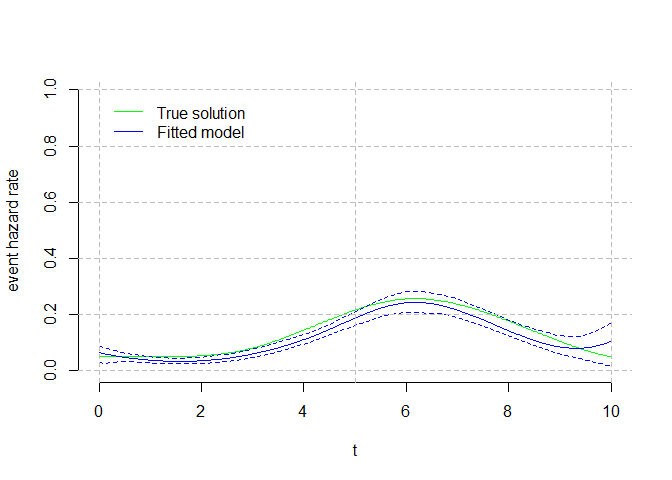
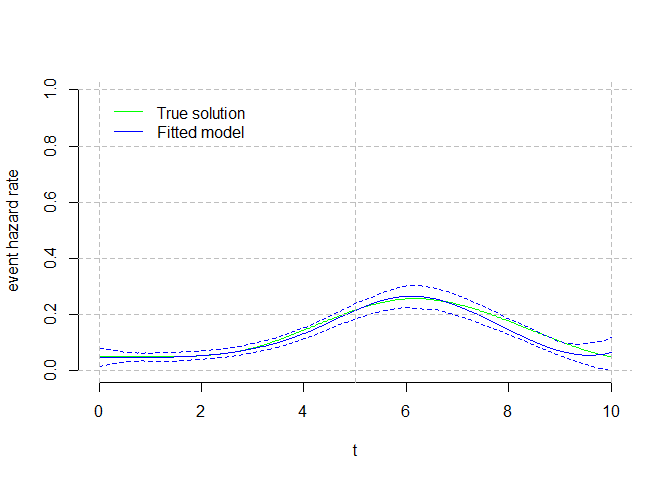
Cleaning after git mess

diff --git a/README.md b/README.md
@@ -1,11 +1,5 @@
-<<<<<<< HEAD
-
-<!-- README.md is generated from README.Rmd. Please edit that file -->
 
 # SplineHazardRegression
-
-<!-- badges: start -->
-<!-- badges: end -->
 
 Survival hazards are used in regression (Cox proportional hazards
 models) but rarely reported or visualized in descriptive analyses, where
@@ -80,23 +74,23 @@ hist( SimDat$time[ which(SimDat$status==0)], main="", xlab="t", breaks="Freedman
    # Result = hspcore(yd=SimDat, ORDER=4, knots=c(0,1,3,6,10), time=timeout, Bootstrap = 120, verbose=FALSE )   
    Result = hspcore(yd=SimDat, ORDER=4, Exterior.knots = c(0,10), Interior.knots=NULL, SelectBestKnots = TRUE, time=timeout, Bootstrap = 200, verbose=FALSE )  
 #> [1] "Automatic search for K the number of interior knots of the B-spline hazard function"
-#> [1] "K=0, m2loglik=303.36, DOF=4, AICc=311.49, knots= 0 10"
-#> [1] "K=1, m2loglik=300.14, DOF=5, AICc=310.35, knots= 0 5.2 10"
-#> [1] "K=2, m2loglik=289.72, DOF=6, AICc=302, knots= 0 4.4 6.1 10"
-#> [1] "K=3, m2loglik=288.5, DOF=7, AICc=302.88, knots= 0 3.7 5.2 6.7 10"
-#> [1] "K=4, m2loglik=288.62, DOF=8, AICc=305.11, knots= 0 3.3 4.7 5.6 6.9 10"
-#> [1] "K=5, m2loglik=287.44, DOF=9, AICc=306.05, knots= 0 2.6 4.4 5.2 6.1 7.2 10"
-#> [1] "K=6, m2loglik=287.3, DOF=10, AICc=308.06, knots= 0 2.3 4 4.8 5.4 6.3 7.4 10"
-#> [1] "K=7, m2loglik=287.13, DOF=11, AICc=310.05, knots= 0 2 3.7 4.6 5.2 5.7 6.7 7.4 10"
-#> [1] "K=8, m2loglik=286.42, DOF=12, AICc=311.51, knots= 0 1.7 3.4 4.4 4.9 5.4 6.1 6.8 7.6 10"
-#> [1] "K=9, m2loglik=285.57, DOF=13, AICc=312.84, knots= 0 1.4 3.3 4.2 4.7 5.2 5.6 6.2 6.9 7.7 10"
-#> [1] "K=10, m2loglik=286.06, DOF=14, AICc=315.52, knots= 0 1.2 3 3.9 4.5 4.9 5.4 5.9 6.5 7 8 10"
-#> [1] "K=11, m2loglik=284.8, DOF=15, AICc=316.48, knots= 0 1 2.6 3.7 4.4 4.8 5.2 5.6 6.1 6.7 7.2 8.1 10"
-#> [1] "K=12, m2loglik=284.19, DOF=16, AICc=318.1, knots= 0 0.9 2.4 3.5 4.3 4.6 4.9 5.3 5.7 6.2 6.8 7.3 8.3 10"
-#> [1] "K=13, m2loglik=283.5, DOF=17, AICc=319.66, knots= 0 0.9 2.3 3.4 4 4.5 4.8 5.2 5.4 5.9 6.3 6.8 7.4 8.3 10"
-#> [1] "K=14, m2loglik=281.85, DOF=18, AICc=320.27, knots= 0 0.8 2.2 3.3 3.9 4.4 4.7 4.9 5.3 5.6 6.1 6.6 6.9 7.4 8.4 10"
+#> [1] "K=0, m2loglik=279.78, DOF=4, AICc=287.92, knots= 0 10"
+#> [1] "K=1, m2loglik=277.87, DOF=5, AICc=288.07, knots= 0 4.9 10"
+#> [1] "K=2, m2loglik=271.08, DOF=6, AICc=283.36, knots= 0 4 6 10"
+#> [1] "K=3, m2loglik=270.38, DOF=7, AICc=284.76, knots= 0 3.3 4.9 6.4 10"
+#> [1] "K=4, m2loglik=270.14, DOF=8, AICc=286.63, knots= 0 2.9 4.3 5.5 6.6 10"
+#> [1] "K=5, m2loglik=268.59, DOF=9, AICc=287.21, knots= 0 2.5 4 4.9 6 7 10"
+#> [1] "K=6, m2loglik=266.8, DOF=10, AICc=287.56, knots= 0 2 3.6 4.5 5.4 6.2 7.1 10"
+#> [1] "K=7, m2loglik=266.07, DOF=11, AICc=288.98, knots= 0 1.7 3.3 4.2 4.9 5.7 6.4 7.1 10"
+#> [1] "K=8, m2loglik=265.1, DOF=12, AICc=290.18, knots= 0 1.5 3 4 4.6 5.3 6 6.5 7.2 10"
+#> [1] "K=9, m2loglik=265.16, DOF=13, AICc=292.43, knots= 0 1.4 2.9 3.7 4.3 4.9 5.5 6.1 6.6 7.2 10"
+#> [1] "K=10, m2loglik=264.43, DOF=14, AICc=293.9, knots= 0 1.3 2.7 3.5 4.1 4.8 5.3 5.7 6.3 6.8 7.3 10"
+#> [1] "K=11, m2loglik=263.18, DOF=15, AICc=294.87, knots= 0 1.2 2.5 3.3 4 4.3 4.9 5.4 6 6.4 7 7.5 10"
+#> [1] "K=12, m2loglik=262.19, DOF=16, AICc=296.1, knots= 0 1.2 2.3 3.1 3.7 4.2 4.8 5.3 5.6 6.1 6.4 7 7.5 10"
+#> [1] "K=13, m2loglik=260.18, DOF=17, AICc=296.35, knots= 0 1 2 2.9 3.6 4.1 4.5 4.9 5.4 5.8 6.2 6.5 7.1 7.6 10"
+#> [1] "K=14, m2loglik=258.9, DOF=18, AICc=297.33, knots= 0 0.9 1.9 2.9 3.4 4 4.3 4.8 5.3 5.5 6 6.3 6.6 7.1 7.7 10"
 #> [1] "SEARCH RESULT: We use 2 interior B-spline knots"
-#> [1] "K= 2 DOF= 6 knots= 0 4.4 6.1 10"
+#> [1] "K= 2 DOF= 6 knots= 0 4 6 10"
 #> [1] "Variance estimation using bootstrap"
 ```
 
@@ -108,114 +102,3 @@ You’ll still need to render `README.Rmd` regularly, to keep `README.md`
 up-to-date. `devtools::build_readme()` is handy for this. In that case,
 don’t forget to commit and push the resulting figure files, so they
 display on GitHub and CRAN.
-=======
-
-<!-- README.md is generated from README.Rmd. Please edit that file -->
-
-# SplineHazardRegression
-
-<!-- badges: start -->
-<!-- badges: end -->
-
-Survival hazards are used in regression (Cox proportional hazards
-models) but rarely reported or visualized in descriptive analyses, where
-Kaplan-Meier cumulative survival and at best Nelson-Aalen cumulative
-hazard are commonly used. It turns out that describing survival hazards
-can be very informative, allowing to spot “instantaneous” patterns that
-are not visible in cumulative measures of hazard and survival, which in
-fact can be derived from hazard functions.
-
-The primary goal of SplineHazardRegression is to make available the
-methods for flexible estimation of hazards using (cubic) b-splines
-published in Philip S. Rosenberg. “Hazard Function Estimation Using
-B-Splines” In Biometrics, Vol. 51, No. 3 (Sep., 1995), pp. 874-887
-<https://doi.org/10.2307/2532989> The input data is time-to-event data
-(e.g. time to death), possibly right-censored and with late entries
-(both meaning that patients are followed-up for unequal times).
-
-The package also allows the flexible estimation of the cumulative hazard
-and cumulative survival functions, and (in progress) the computation of
-aggregate measures for those (average, median, interquartile range,
-etc).
-
-The automatic selection of knots and bootstrap variance estimation have
-been implemented.
-
-## Installation
-
-You can install the development version of SplineHazardRegression from
-[GitHub](https://github.com/) with:
-
-``` r
-# install.packages("devtools")
-devtools::install_github("fespuny/SplineHazardRegression")
-```
-
-## Example
-
-This is a basic example which shows you how to simulate time-to-event
-data and fit a hazard function, deriving then cumulative hazard and
-survival estimates.
-
-### Data Simulation
-
-``` r
-library(SplineHazardRegression)
-## simulation parameters
-   knots = c(0, 1, 3, 6, 10, NA, NA)
-   betac = 1 * c(0.05, 0.05, 0.05, 0.05, 0.40, 0.1, 0.05)
-   HParm = data.frame(knots, betac) # 'A Simple B-Spline'
-   cll = c(0, 5)
-   cup = c(5, 10)
-   cih = c(0.0125, 0.025)
-   CParm = data.frame(cll, cup, cih) # 'Light Censoring'
-## calculate simulation true hazard and censoring distributions
-   INPUTS = etsim_inputs( HParam=HParm, CParam=CParm, SampleSize = 301 )
-## simulate time-to-event data using true distribution
-   SimDat = etsim(INPUTS)
-## histogram of the fully observed hazard data (gray) and censored observations (light blue)
-hist( SimDat$time[ which(SimDat$status==1)], main="", xlab="t", breaks="Freedman-Diaconis", xlim=c(0,10) )
-hist( SimDat$time[ which(SimDat$status==0)], main="", xlab="t", breaks="Freedman-Diaconis", xlim=c(0,10),add=TRUE, col=rgb(173,216,230,max=255,alpha=100) )
-```
-
-<img src="man/figures/README-simulation-1.png" width="100%" />
-
-### Hazard regression
-
-``` r
-## Fit a cubic B-spline regression model using the true knots
-   # yd0= read.csv("C:/local/CORU/Survival Hazard and KM/Philip Rosenberg papers and code/matlab v1 PR/Dataset1.csv", header = F, col.names = c("time","status") )
-   # SimDat = yd0
-   timeout = seq( 0, 10, length.out = 501 )
-   # Result = hspcore(yd=SimDat, ORDER=4, knots=c(0,1,3,6,10), time=timeout, Bootstrap = 120, verbose=FALSE )   
-   Result = hspcore(yd=SimDat, ORDER=4, Exterior.knots = c(0,10), Interior.knots=NULL, SelectBestKnots = TRUE, time=timeout, Bootstrap = 200, verbose=FALSE )  
-#> [1] "Automatic search for K the number of interior knots of the B-spline hazard function"
-#> [1] "K=0, m2loglik=303.36, DOF=4, AICc=311.49, knots= 0 10"
-#> [1] "K=1, m2loglik=300.14, DOF=5, AICc=310.35, knots= 0 5.2 10"
-#> [1] "K=2, m2loglik=289.72, DOF=6, AICc=302, knots= 0 4.4 6.1 10"
-#> [1] "K=3, m2loglik=288.5, DOF=7, AICc=302.88, knots= 0 3.7 5.2 6.7 10"
-#> [1] "K=4, m2loglik=288.62, DOF=8, AICc=305.11, knots= 0 3.3 4.7 5.6 6.9 10"
-#> [1] "K=5, m2loglik=287.44, DOF=9, AICc=306.05, knots= 0 2.6 4.4 5.2 6.1 7.2 10"
-#> [1] "K=6, m2loglik=287.3, DOF=10, AICc=308.06, knots= 0 2.3 4 4.8 5.4 6.3 7.4 10"
-#> [1] "K=7, m2loglik=287.13, DOF=11, AICc=310.05, knots= 0 2 3.7 4.6 5.2 5.7 6.7 7.4 10"
-#> [1] "K=8, m2loglik=286.42, DOF=12, AICc=311.51, knots= 0 1.7 3.4 4.4 4.9 5.4 6.1 6.8 7.6 10"
-#> [1] "K=9, m2loglik=285.57, DOF=13, AICc=312.84, knots= 0 1.4 3.3 4.2 4.7 5.2 5.6 6.2 6.9 7.7 10"
-#> [1] "K=10, m2loglik=286.06, DOF=14, AICc=315.52, knots= 0 1.2 3 3.9 4.5 4.9 5.4 5.9 6.5 7 8 10"
-#> [1] "K=11, m2loglik=284.8, DOF=15, AICc=316.48, knots= 0 1 2.6 3.7 4.4 4.8 5.2 5.6 6.1 6.7 7.2 8.1 10"
-#> [1] "K=12, m2loglik=284.19, DOF=16, AICc=318.1, knots= 0 0.9 2.4 3.5 4.3 4.6 4.9 5.3 5.7 6.2 6.8 7.3 8.3 10"
-#> [1] "K=13, m2loglik=283.5, DOF=17, AICc=319.66, knots= 0 0.9 2.3 3.4 4 4.5 4.8 5.2 5.4 5.9 6.3 6.8 7.4 8.3 10"
-#> [1] "K=14, m2loglik=281.85, DOF=18, AICc=320.27, knots= 0 0.8 2.2 3.3 3.9 4.4 4.7 4.9 5.3 5.6 6.1 6.6 6.9 7.4 8.4 10"
-#> [1] "SEARCH RESULT: We use 2 interior B-spline knots"
-#> [1] "K= 2 DOF= 6 knots= 0 4.4 6.1 10"
-#> [1] "Variance estimation using bootstrap"
-```
-
-<img src="man/figures/README-result-figures-side-1.png" width="50%" /><img src="man/figures/README-result-figures-side-2.png" width="50%" /><img src="man/figures/README-result-figures-side-3.png" width="50%" /><img src="man/figures/README-result-figures-side-4.png" width="50%" />
-
-## PACKAGE DEVELOPMENT NOTE
-
-You’ll still need to render `README.Rmd` regularly, to keep `README.md`
-up-to-date. `devtools::build_readme()` is handy for this. In that case,
-don’t forget to commit and push the resulting figure files, so they
-display on GitHub and CRAN.
->>>>>>> 7b43e3ca7fdacde910cb8448901147ba1f4accbe
